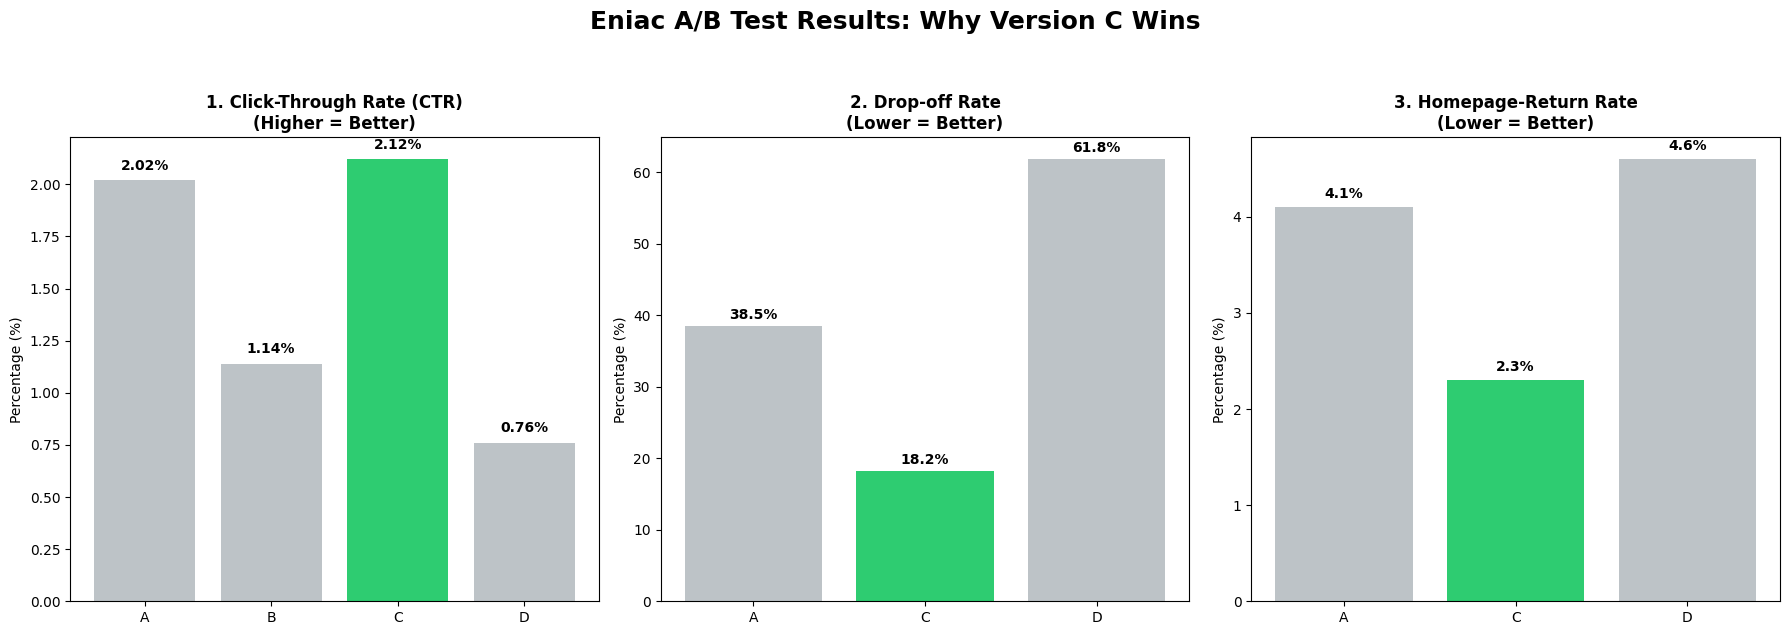
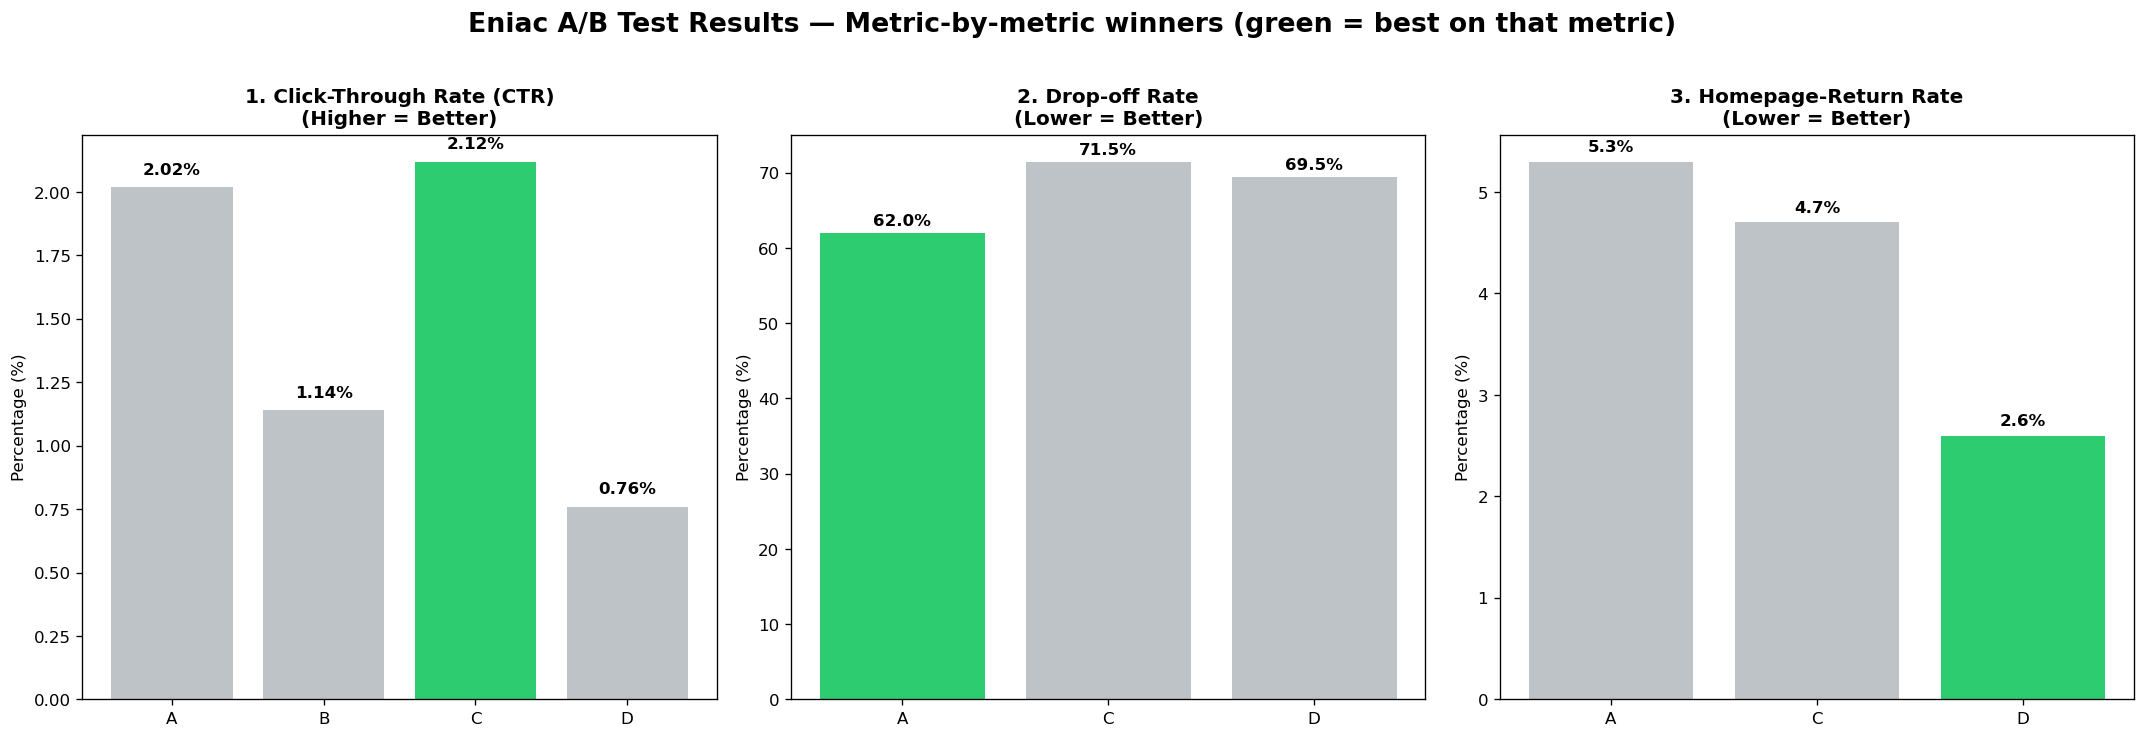
Fix: Corrected drop-off and return rates based on LMS data

diff --git a/README.md b/README.md
@@ -80,20 +80,21 @@ Statistical significance is complemented by the **relative lift** of each varian
 
 | Version | CTR (↑) | Drop-off rate (↓) | Homepage-return rate (↓) |
 |:-------:|:-------:|:-----------------:|:------------------------:|
-| A       |  2.02%  |       38.5%       |           4.1%           |
+| **A**   |  2.02%  |     **62.0%**     |           5.3%           |
 | B       |  1.14%  |       n/a         |           n/a            |
-| **C**   | **2.12%** |    **18.2%**      |         **2.3%**         |
-| D       |  0.76%  |       61.8%       |           4.6%           |
+| **C**   | **2.12%** |     71.5%       |           4.7%           |
+| **D**   |  0.76%  |       69.5%       |         **2.6%**         |
 
-Drop-off and homepage-return rates were not available as CSV exports; values are read from the LMS dashboards. Version B tracking failed during the window.
+Drop-off and homepage-return rates were not available as CSV exports; values are read from the LMS dashboards. Version B tracking failed during the window, so B is missing on both supplementary metrics. **Bold cells mark the best (lowest / highest) value per column.**
 
 ![Eniac A/B test results](images/Eniac_A_B_Test_Results.png)
 
 **Interpretation.**
 
 - **Color is the dominant driver.** White buttons win decisively over red buttons on CTR.
-- **Label is a secondary effect.** `SEE DEALS` edges out `SHOP NOW` but not to a statistically significant degree on CTR alone.
-- **C dominates supplementary metrics.** Users arriving via the `SEE DEALS` label drop off less and return to the homepage less often — a strong signal that the label sets better expectations for the destination page.
+- **Label is a secondary effect.** `SEE DEALS` (C) edges out `SHOP NOW` (A) on CTR, but the gap is not statistically significant on its own.
+- **Supplementary metrics are a trade-off, not a clean win.** Version **A** has the lowest drop-off rate (~62% vs. C's ~71.5%) — more users stay on the landing page. Version **D** has the lowest return rate (~2.6% vs. C's ~4.7%) — fewest post-click regrets. Version **C** sits between them on both: it keeps post-click users engaged better than A, at the cost of more users dropping off the landing page before they click.
+- The LMS dashboards report point estimates without confidence intervals, so these supplementary metrics are directional — they support the CTR analysis rather than override it.
 
 ---
 
@@ -101,14 +102,14 @@ Drop-off and homepage-return rates were not available as CSV exports; values are
 
 **Roll out Version C — the white `SEE DEALS` button.**
 
-1. **Statistically**, C is tied with the current-best baseline A and significantly beats both red variants.
-2. **Directionally**, C has the highest observed CTR and a ~5% relative lift over A.
-3. **Holistically**, C has the lowest drop-off rate and the lowest homepage-return rate of all measurable variants — it wins on every supporting metric.
-4. **Risk is low**: A and C are statistically equivalent on CTR, so switching from A to C cannot hurt CTR at the sample sizes tested.
+1. **Statistically**, C is tied with the current-best baseline A and significantly beats both red variants. Color is the dominant, statistically proven driver.
+2. **Directionally**, C has the highest observed CTR (2.12%) and a ~5% relative lift over A — the largest observed lift on the only metric we can test rigorously.
+3. **Supplementary metrics are mixed, not a clean win for C.** A has the lower drop-off rate, D has the lower return rate, and C sits between them on both. These LMS numbers come without confidence intervals (and B is missing entirely), so they are directional — they do not override the CTR result but do introduce a caveat.
+4. **Risk is contained.** A and C are statistically equivalent on CTR, so switching from A to C cannot hurt CTR at the sample sizes tested. The drop-off gap is the main open question, which the follow-up test below is designed to resolve.
 
 **Next steps.**
 - Monitor post-launch CTR and downstream conversion for two weeks.
-- If the A-vs-C question becomes business-critical, run a follow-up two-arm test with a larger sample to reach the required statistical power.
+- Run a confirmatory **A vs. C head-to-head** test instrumented across the full funnel (landing → click → purchase → homepage return) so the drop-off / return-rate trade-off can be resolved on measured revenue rather than on directional dashboards.
 
 ![Power calculator for experiment duration](images/power_calculator_to_calculate_the_experiment_duration.png)
 
